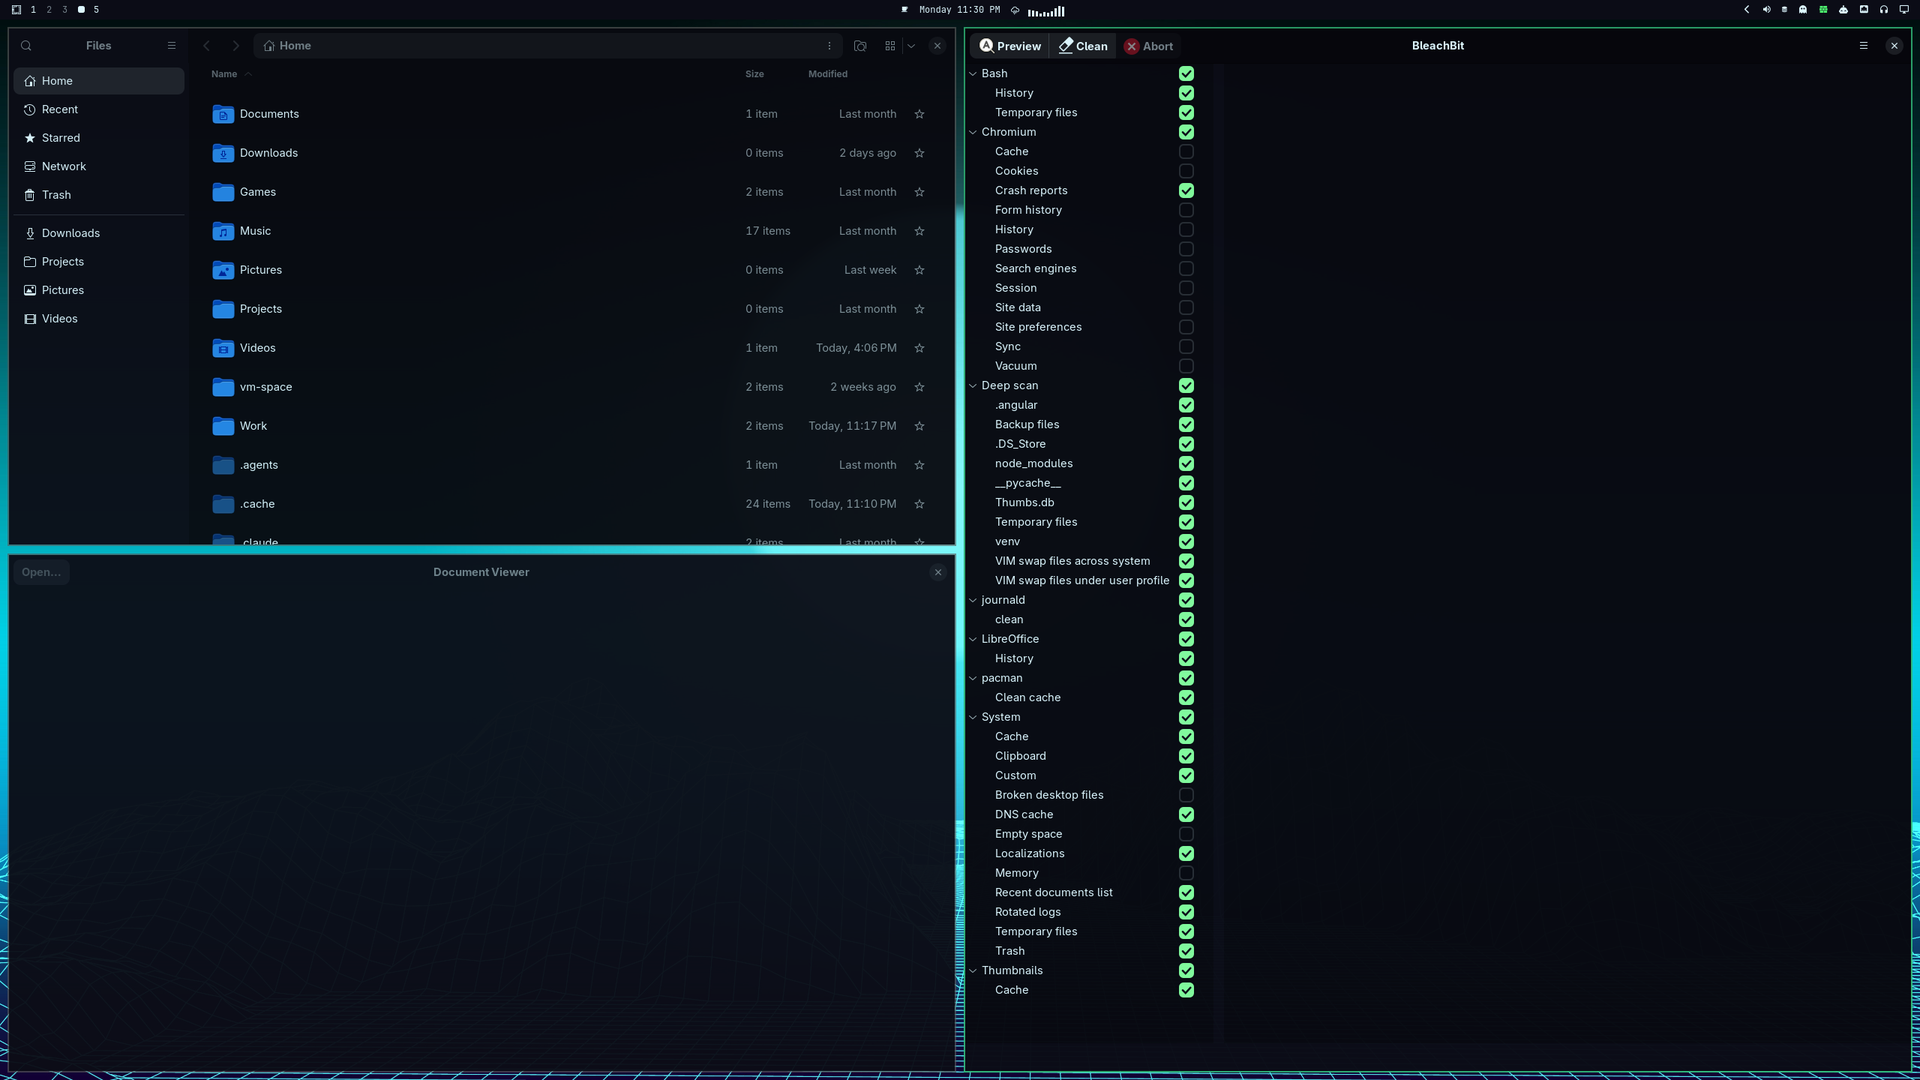
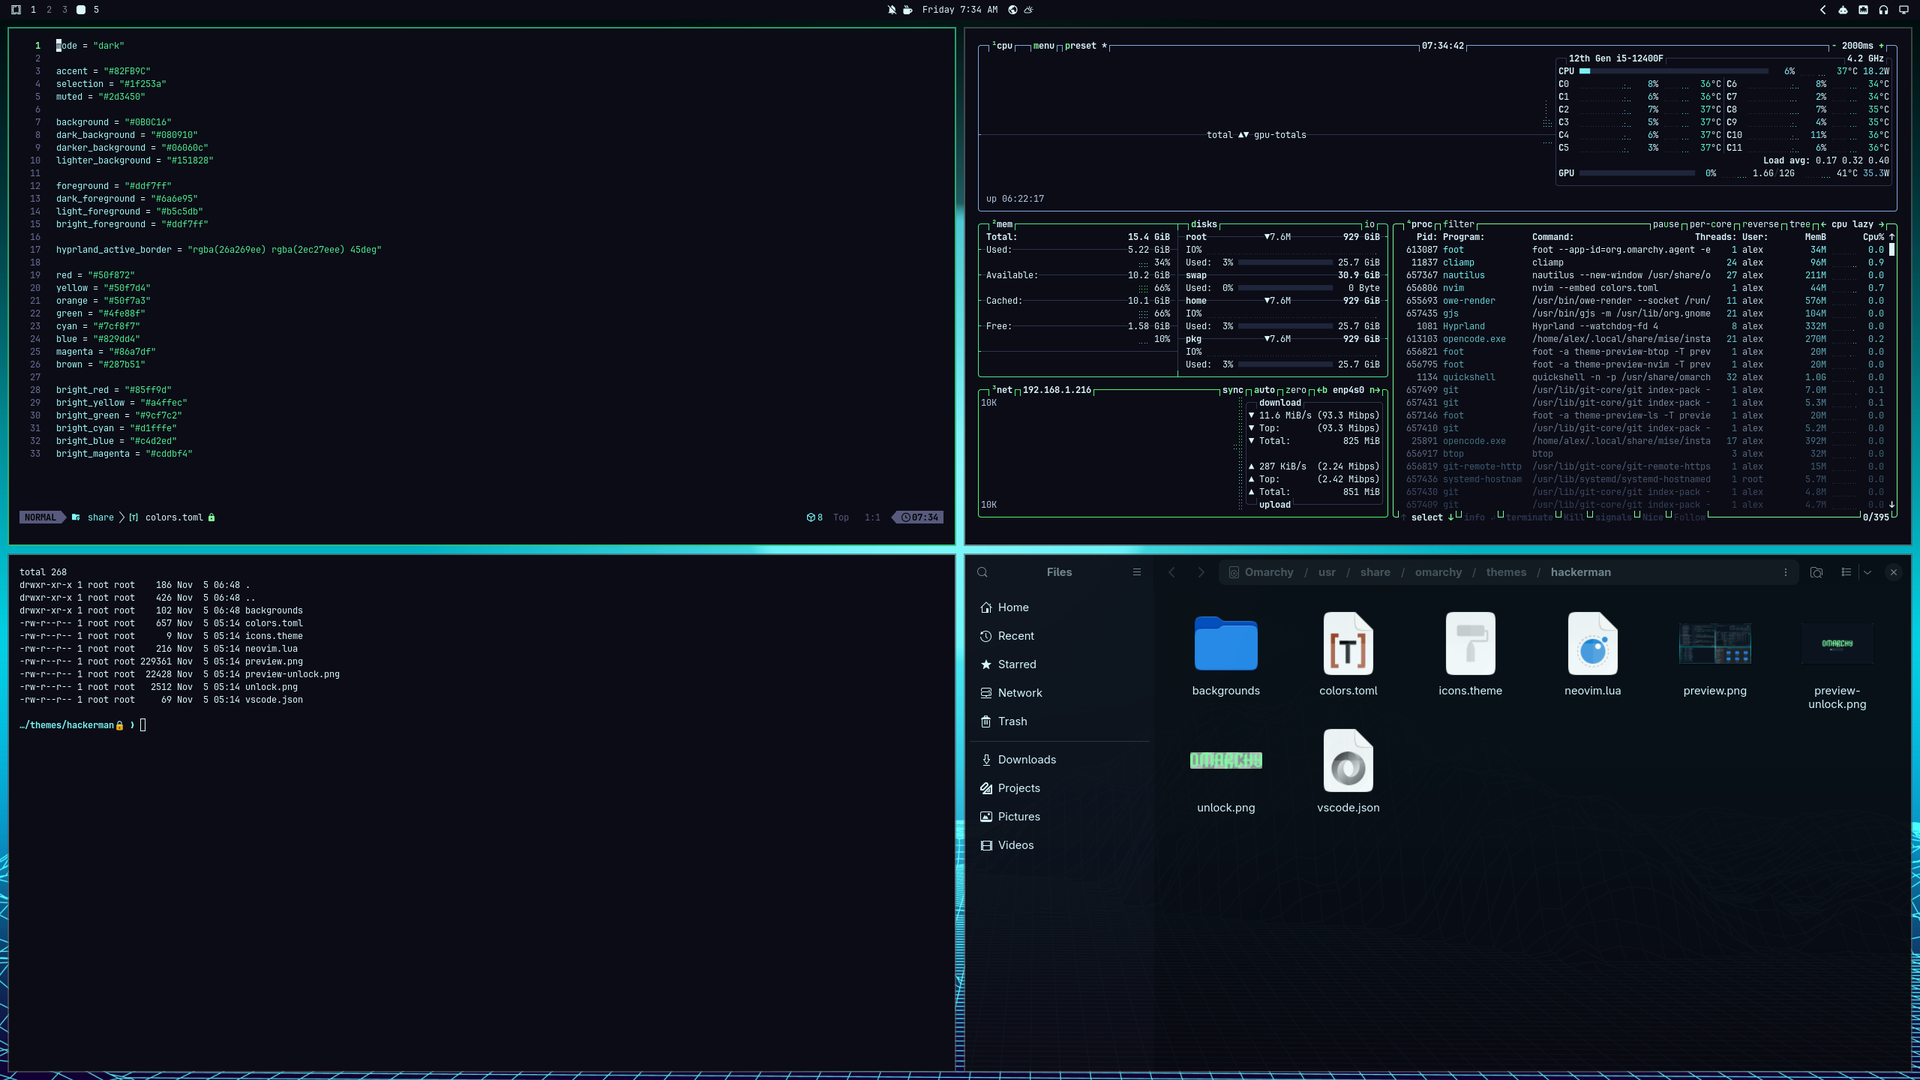
Reshoot Hackerman preview with the standard theme-preview app set.

diff --git a/README.md b/README.md
@@ -5,7 +5,7 @@ one-sweep: it paints the GTK and Qt *pipelines* most desktop apps already
 use, so dozens of programs pick up the active theme without an Appearance picker
 or a per-app skin.**
 
-![Chroma on Hackerman — Files, Document Viewer, and BleachBit wearing the theme](preview.png)
+![Chroma on Hackerman — Neovim, btop, ls, and Files wearing the theme](preview.png)
 
 Stock Omarchy flips Nautilus, BleachBit, Evince and friends between light and
 dark Adwaita. That is all they ever get: the same default gray in every theme.
